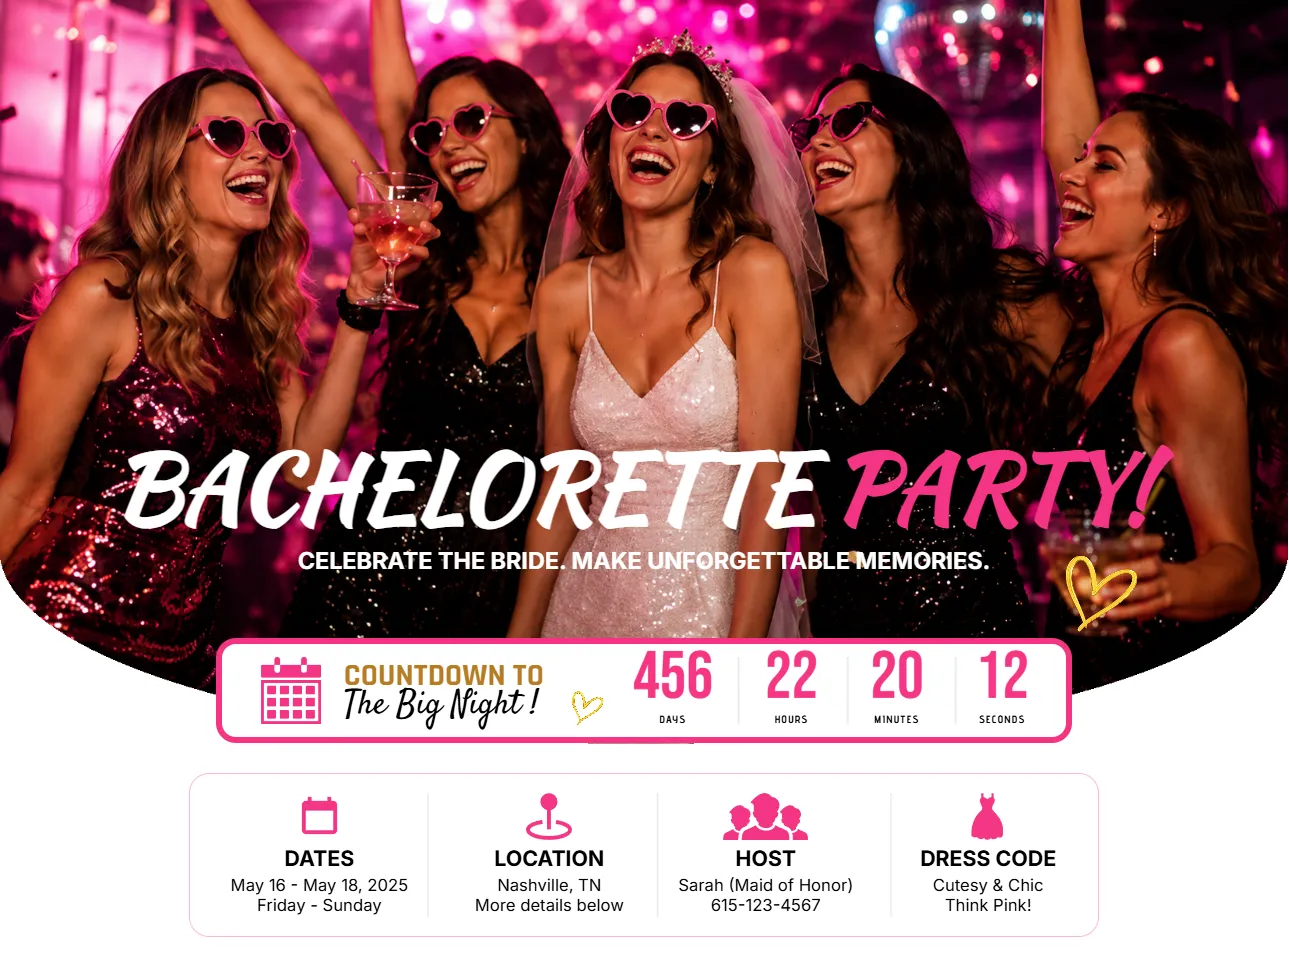
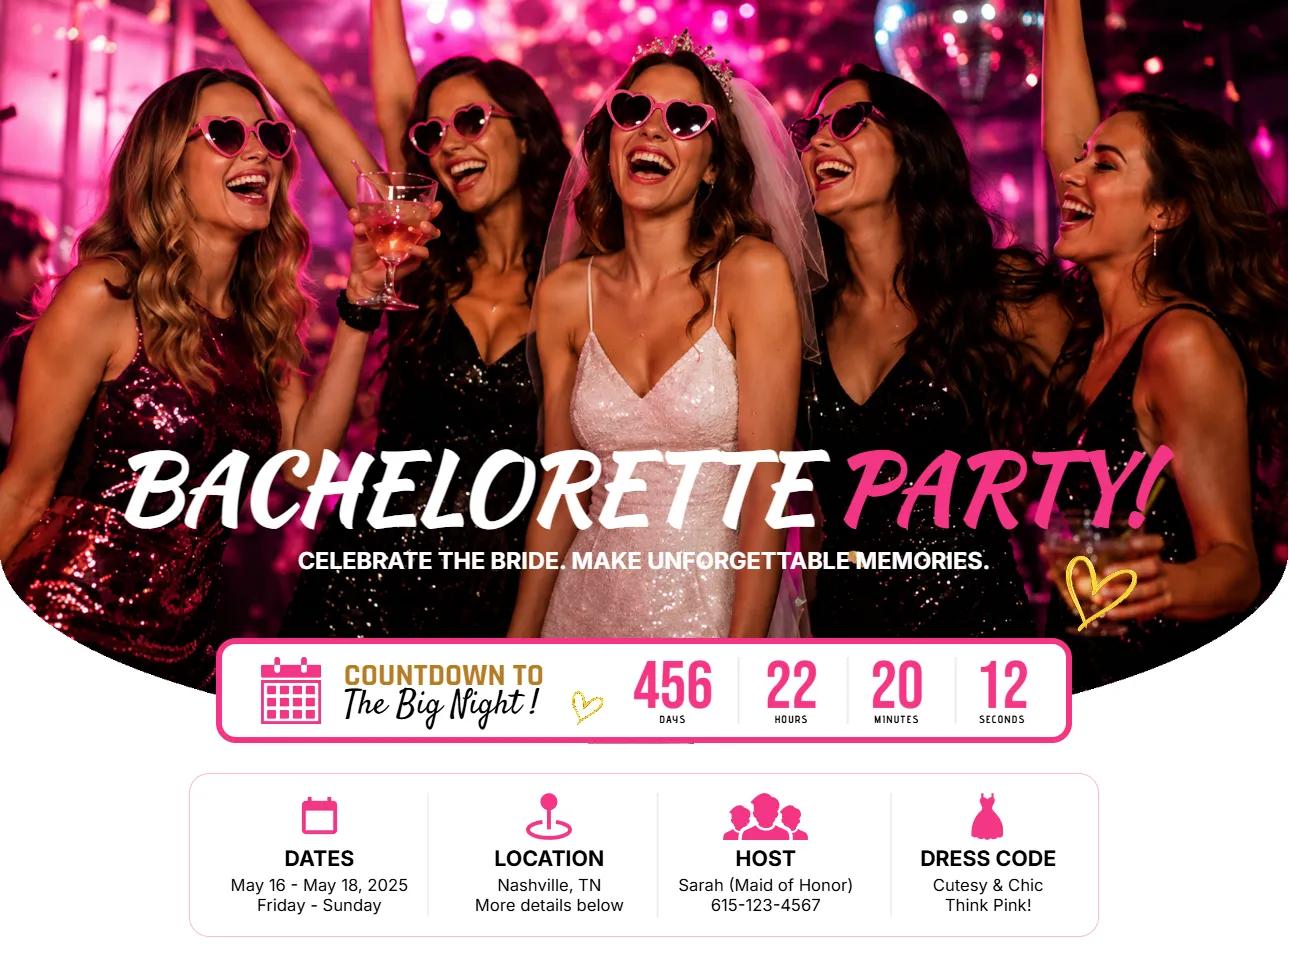
Update Push Commits

Changed region(s): [[0.5896, 0.6515, 0.7137, 0.7446], [0.4965, 0.6515, 0.5586, 0.7446], [0.7758, 0.6515, 0.8068, 0.7446]]

diff --git a/app/faq/page.tsx b/app/faq/page.tsx
@@ -1,5 +1,5 @@
 const faqCards = [
-  {
+  {/* 
     title: "Photo Gallery",
     image: "/designs/design-cards/design-card_photo_gallery_escape.webp",
     className: "left-[60px] top-[280px] rotate-[-8deg] hidden xl:block",
@@ -40,8 +40,108 @@ const faqCards = [
     title: "Open House",
     image: "/designs/design-cards/design-card_open_house_signature.webp",
     className: "left-[220px] top-[3080px] rotate-[-5deg] hidden 2xl:block",
-  },
+  }, */
 
+  {
+  title: "Bible Book Club",
+  image: "/designs/design-cards/design-card_book_club_bible.webp",
+  className: "left-[245px] top-[3080px] rotate-[7deg] hidden 2xl:block",
+},
+{
+  title: "City Council",
+  image: "/designs/design-cards/design-card_election_campaign_city.webp",
+  className: "left-[65px] top-[3480px] rotate-[-6deg] hidden 2xl:block",
+},
+{
+  title: "Playful Baby Shower",
+  image: "/designs/design-cards/design-card_baby_shower_playful.webp",
+  className: "left-[235px] top-[3880px] rotate-[-5deg] hidden 2xl:block",
+},
+{
+  title: "Digital Link Hub",
+  image: "/designs/design-cards/design-card_creator_link_hub_digital.webp",
+  className: "left-[50px] top-[4280px] rotate-[6deg] hidden 2xl:block",
+},
+{
+  title: "Birthday Blast",
+  image: "/designs/design-cards/design-card_birthday_party_blast.webp",
+  className: "left-[255px] top-[4680px] rotate-[8deg] hidden 2xl:block",
+},
+{
+  title: "Community Newsletter",
+  image: "/designs/design-cards/design-card_community_alert_newsletter.webp",
+  className: "left-[75px] top-[5080px] rotate-[-7deg] hidden 2xl:block",
+},
+{
+  title: "Forever Question",
+  image: "/designs/design-cards/design-card_engagement_announcement_forever.webp",
+  className: "left-[240px] top-[5480px] rotate-[-6deg] hidden 2xl:block",
+},
+{
+  title: "Professional Beta Testing",
+  image: "/designs/design-cards/design-card_beta_testing_professional.webp",
+  className: "left-[45px] top-[5880px] rotate-[5deg] hidden 2xl:block",
+},
+{
+  title: "Elegant Baby Shower",
+  image: "/designs/design-cards/design-card_baby_shower_elegant.webp",
+  className: "left-[250px] top-[6280px] rotate-[6deg] hidden 2xl:block",
+},
+{
+  title: "Perfect Moment",
+  image: "/designs/design-cards/design-card_engagement_announcement_perfect.webp",
+  className: "left-[60px] top-[6680px] rotate-[-5deg] hidden 2xl:block",
+},
+{
+  title: "Canvas Link Hub",
+  image: "/designs/design-cards/design-card_creator_link_hub_canvas.webp",
+  className: "left-[230px] top-[7080px] rotate-[-8deg] hidden 2xl:block",
+},
+{
+  title: "Golden Birthday",
+  image: "/designs/design-cards/design-card_birthday_golden.webp",
+  className: "left-[80px] top-[7480px] rotate-[7deg] hidden 2xl:block",
+},
+{
+  title: "Showcase Networking",
+  image: "/designs/design-cards/design-card_enthusiast_networking_showcase.webp",
+  className: "left-[245px] top-[7880px] rotate-[5deg] hidden 2xl:block",
+},
+{
+  title: "Easter Church Event",
+  image: "/designs/design-cards/design-card_church_event_easter.webp",
+  className: "left-[55px] top-[8280px] rotate-[-6deg] hidden 2xl:block",
+},
+{
+  title: "Tiny Treasure",
+  image: "/designs/design-cards/design-card_baby_shower_treasure.webp",
+  className: "left-[255px] top-[8680px] rotate-[-5deg] hidden 2xl:block",
+},
+{
+  title: "Elaborate Crowdfunding",
+  image: "/designs/design-cards/design-card_crowdfunding_elaborate.webp",
+  className: "left-[40px] top-[9080px] rotate-[8deg] hidden 2xl:block",
+},
+{
+  title: "Grown Birthday",
+  image: "/designs/design-cards/design-card_birthday_grown.webp",
+  className: "left-[235px] top-[9480px] rotate-[6deg] hidden 2xl:block",
+},
+{
+  title: "Direct Networking",
+  image: "/designs/design-cards/design-card_enthusiast_networking_direct.webp",
+  className: "left-[70px] top-[9880px] rotate-[-7deg] hidden 2xl:block",
+},
+{
+  title: "Studio Link Hub",
+  image: "/designs/design-cards/design-card_creator_link_hub_studio.webp",
+  className: "left-[250px] top-[10280px] rotate-[-6deg] hidden 2xl:block",
+},
+{
+  title: "Playful Birthday",
+  image: "/designs/design-cards/design-card_birthday_playful.webp",
+  className: "left-[50px] top-[10680px] rotate-[5deg] hidden 2xl:block",
+},
 
 
 
@@ -49,7 +149,7 @@ const faqCards = [
 
   {
   title: "Learning Lab",
-  image: "/designs/design-cards/design-card_learning_lab_worksheet.webp",
+  image: "/designs/design-cards/design-card_learning_lab_foundations.webp",
   className:
     "right-[60px] top-[280px] rotate-[7deg] hidden 2xl:block",
 },
@@ -76,12 +176,6 @@ const faqCards = [
 },
 
 {
-  title: "Restaurant",
-  image: "/designs/design-cards/design-card_restaurant_menu_deluxe.webp",
-  className: "right-[60] top-[1880px] rotate-[-4deg] hidden 2xl:block",
-},
-
-{
 title: "Graduation",
 image: "/designs/design-cards/design-card_graduation_prestige.webp",
 className: "right-[230] top-[2280px] rotate-[5deg] hidden 2xl:block",
@@ -99,6 +193,11 @@ image: "/designs/design-cards/design-card_watch_club_hangout.webp",
 className: "right-[250] top-[3080px] rotate-[5deg] hidden 2xl:block",
 },
 
+{
+  title: "Restaurant",
+  image: "/designs/design-cards/design-card_restaurant_menu_deluxe.webp",
+  className: "right-[60] top-[1880px] rotate-[-4deg] hidden 2xl:block",
+},
 
 
 
